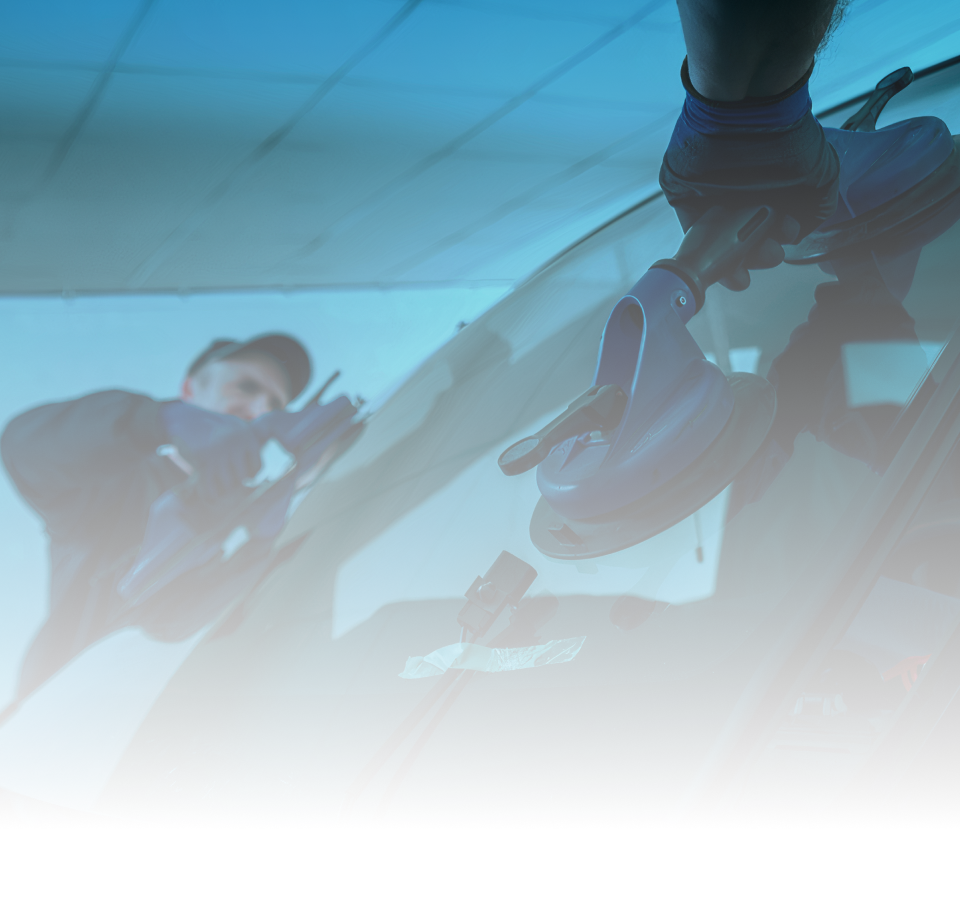
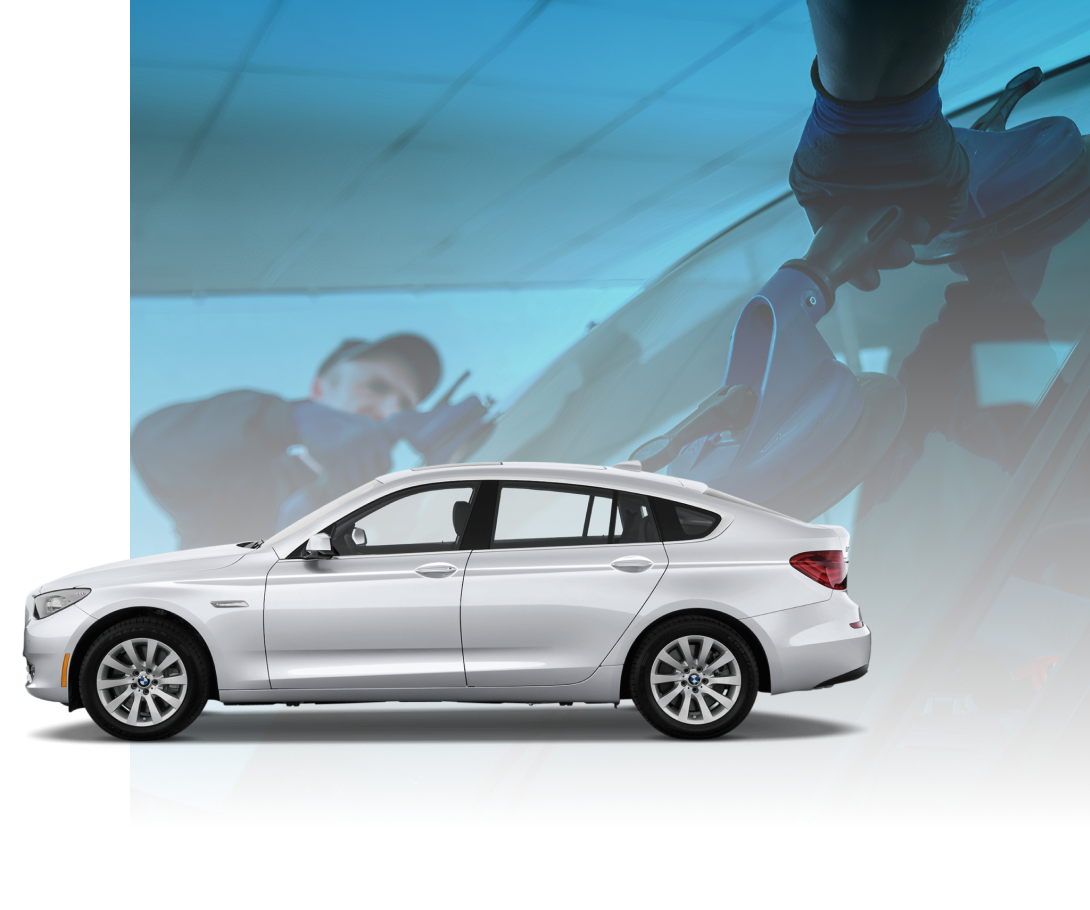
2.02

diff --git a/flex.css b/flex.css
@@ -2,10 +2,139 @@
     .row {
         max-width: 1200px;
     }
-    .bmw {
-        right: -43%;
+    .menu li {
+        margin-left: 28px;
     }
-    .bmw img {
-        width: 80%;
-     }
+    .slider_text,
+    .big_text {
+        font-size: 32px;
+        margin-top: 60px;
+    }
+    .slider_small_text,
+    .small_text {
+        font-size: 21px;
+    }
+    .left_side {
+        max-width: 480px;
+    }
+    .ravt {
+        margin-top: 70px;
+    }
+
+}
+
+@media (max-width: 1300px) {
+    .row {
+        max-width: 1000px;
+    }
+    .menu li {
+        margin-left: 28px;
+        font-size: 14px;
+    }
+    .menu a {
+        font-size: 14px;
+    }
+    header img {
+        width: 130px;
+    }
+    .phone {
+        font-size: 20px;
+    }
+    .ravt {
+        width: 90%;
+        margin-top: 45px;
+    }
+    .left_side {
+        max-width: 420px;
+    }
+    .slider_title {
+        margin-top: 120px;
+    }
+    .slider_item1,
+    .slider_item2,
+    .slider_item3 {
+        height: 700px;
+    }
+    .slider_small_text {
+        width: 50%;
+    }
+    .fos {
+        padding-top: 50px;
+    }
+    .policy {
+        max-width: 360px;
+        font-size: 14px;
+        line-height: 125%;
+        width: 250px;
+    }
+    .contacts {
+        height: 550px;
+    }
+    .contacts_title {
+        margin-top: 35px;
+    }
+    .arrow {
+        width: 56px;
+        height: 56px;
+    }
+}
+@media (max-width: 1100px) {
+    .mt50{margin: 30px 0 0 0;}
+    .row {
+        max-width: 800px;
+    }
+    .menu a {
+        font-size: 12px;
+    }
+    .menu li {
+        margin-left: 14px;
+    }
+    .phone {
+        font-size: 16px;
+    }
+    header img {
+        width: 113px;
+    }
+    .left_side {
+        max-width: 330px;
+    }
+    .ravt {
+        margin-top: 25px;
+    }
+    .slider_text,
+    .big_text {
+        font-size: 26px;
+        margin-top: 50px;
+    }
+    .slider_small_text,
+    .small_text {
+        font-size: 14px;
+        margin-top: 20px;
+        line-height: 18px;
+    }
+    .button {
+        width: 200px;
+        height: 50px;
+        font-size: 14px;
+        border-radius: 25px;
+    }
+    header {
+        height: 100px;
+    }
+    .arrow {
+        width: 46px;
+        height: 46px;
+    }
+    .slider_nav_right,
+    .slider_nav_left {
+        width: 50px;
+        height: 50px;
+    }
+    .slider_title {
+        font-size: 50px;
+        margin-top: 100px;
+    }
+    .slider_item1, .slider_item2, .slider_item3 {
+        height: 600px;
+    }
 }

diff --git a/index.html b/index.html
@@ -4,7 +4,10 @@
     <meta charset="UTF-8">
     <meta http-equiv="X-UA-Compatible" content="IE=edge">
     <meta name="viewport" content="width=device-width, initial-scale=1.0">
-    
+    <meta name="description" content="Mary's simple recipe for maple bacon donuts
+           makes a sticky, sweet treat with just a hint
+           of salt that you'll keep coming back for.">
+
     <link rel="shortcut icon" type="image/x-icon" href="img/favicon.ico">
     
     <title>Автомобильный союз</title>
@@ -101,9 +104,9 @@
             </div>
 
             <div class="right_side">
-                <div class="bmw mt250">
+                <!-- <div class="bmw mt250">
                     <img alt="bmw" src="img/bmw.png">
-                </div>
+                </div> -->
             
             </div>
 
@@ -175,11 +178,11 @@
                     <div class="button">
                         Записаться
                     </div>
-                    <svg class="slider_nav_left" width="70" height="70" viewBox="0 0 70 70" fill="none" xmlns="http://www.w3.org/2000/svg">
+                    <svg class="slider_nav_left" width="70" height="70" viewBox="auto size" fill="none" xmlns="http://www.w3.org/2000/svg">
                         <circle cx="35" cy="35" r="34.5" stroke="#EBB600"/>
                         <path d="M26.2929 34.2929C25.9024 34.6834 25.9024 35.3166 26.2929 35.7071L32.6569 42.0711C33.0474 42.4616 33.6805 42.4616 34.0711 42.0711C34.4616 41.6805 34.4616 41.0474 34.0711 40.6569L28.4142 35L34.0711 29.3431C34.4616 28.9526 34.4616 28.3195 34.0711 27.9289C33.6805 27.5384 33.0474 27.5384 32.6569 27.9289L26.2929 34.2929ZM43 34H27V36H43V34Z" fill="#EBB600"/>
                     </svg>
-                    <svg class="slider_nav_right" width="70" height="70" viewBox="0 0 70 70" fill="none" xmlns="http://www.w3.org/2000/svg">
+                    <svg class="slider_nav_right" width="70" height="70" viewBox="auto size" fill="none" xmlns="http://www.w3.org/2000/svg">
                         <circle r="34.5" transform="matrix(-1 0 0 1 35 35)" stroke="#EBB600"/>
                         <path d="M43.7071 34.2929C44.0976 34.6834 44.0976 35.3166 43.7071 35.7071L37.3431 42.0711C36.9526 42.4616 36.3195 42.4616 35.9289 42.0711C35.5384 41.6805 35.5384 41.0474 35.9289 40.6569L41.5858 35L35.9289 29.3431C35.5384 28.9526 35.5384 28.3195 35.9289 27.9289C36.3195 27.5384 36.9526 27.5384 37.3431 27.9289L43.7071 34.2929ZM27 34H43V36H27V34Z" fill="#EBB600"/>
                     </svg>

diff --git a/main.css b/main.css
@@ -20,7 +20,7 @@ body {
     background-image: url("img/mount.png");
     background-repeat: no-repeat;
     background-position: right 0px;
-    background-size: 50%;
+    background-size: 57%;
     margin: 0;
 }
 
@@ -80,22 +80,22 @@ header {
 }
 
 .left_side {
+    width: 100%;
     max-width: 600px;
 }
 
 .right_side {
     width: 50%;
-    /* max-width: 73%; */
     position: relative;
 }
- .bmw {
+.bmw {
     position: absolute;
     top: 0px;
     right: -23%;
  }
 
- .bmw img {
-    width: inherit;
+.bmw img {
+    width: 500px;
  }
 
 .ravt {
@@ -144,12 +144,14 @@ header {
     cursor: pointer;
     display: flex;
     justify-content: center;
+    align-items: center;
 }
 .button:hover{background: #1095BF;}
 
 .arrow {
     position: fixed;
     background: url(img/arrow.svg)no-repeat;
+    background-size: cover;
     cursor: pointer;
     bottom: 8.5%;
     right: 2%;
@@ -169,7 +171,7 @@ header {
     background-image: url("img/slider_background.png");
     background-repeat: no-repeat;
     background-position: right 0% center;
-    background-size: 1440px ;
+    background-size: 100% ;
     height: 910px;
 }
 
@@ -177,7 +179,7 @@ header {
     background-image: url("img/slider_background.png");
     background-repeat: no-repeat;
     background-position: right 0% center;
-    background-size: 1440px ;
+    background-size: 100% ;
     height: 910px;
 }
 
@@ -185,7 +187,7 @@ header {
     background-image: url("img/slider_background.png");
     background-repeat: no-repeat;
     background-position: right 0% center;
-    background-size: 1440px ;
+    background-size: 100% ;
     height: 910px;
 }
 
